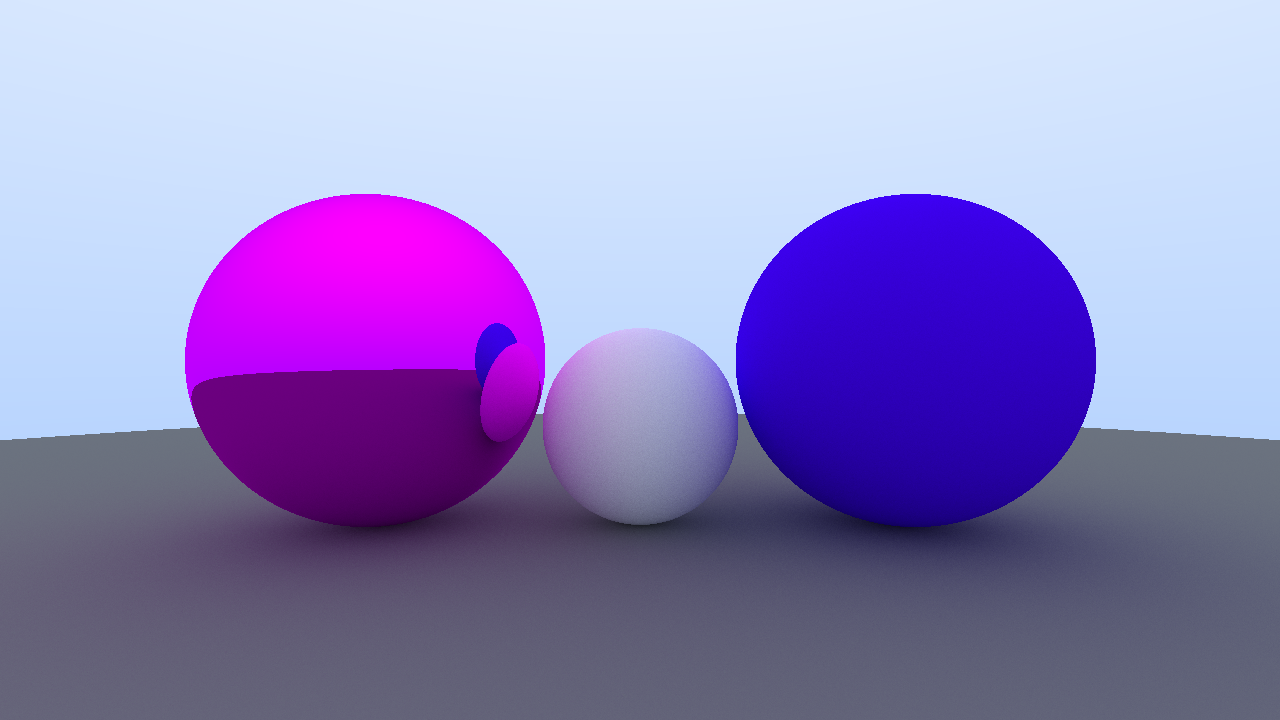
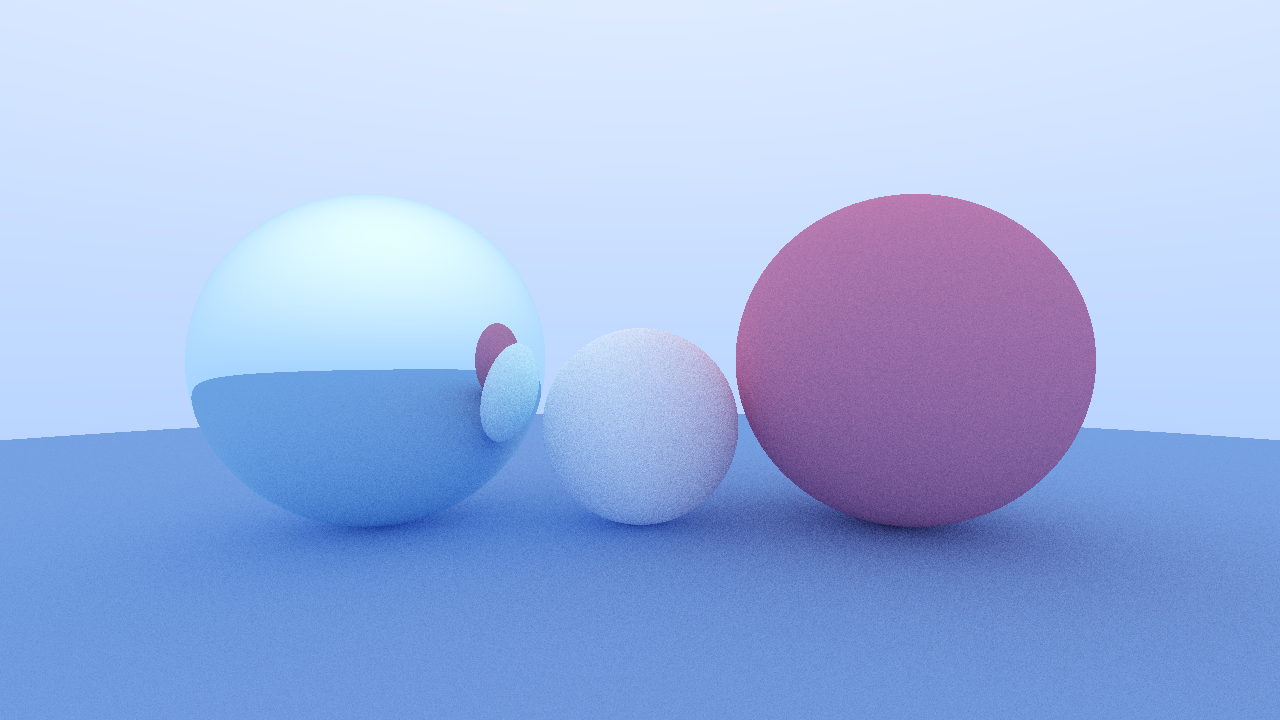
added yaml scene support

diff --git a/src/utils/scene.rs b/src/utils/scene.rs
@@ -1,7 +1,90 @@
-use crate::shapes::sphere::Sphere;
+use std::{fs, sync::Arc};
+
+use nalgebra::Vector3;
+use yaml_rust::YamlLoader;
+
+use crate::{
+    materials::{diffuse::DiffuseMaterial, material::Material, metal::MetalMaterial},
+    shapes::sphere::Sphere,
+};
 
 #[derive(Clone)]
 pub struct Scene {
-    pub name: &'static str,
+    pub name: String,
     pub spheres: Vec<Sphere>,
+
+    pub output: String,
+    pub size: Vec<i64>,
+    pub samples: f64,
+    pub gamma: f64,
+}
+
+impl Scene {
+    pub fn from_file(path: &str) -> Scene {
+        let contents = fs::read_to_string(path).unwrap();
+        let docs = YamlLoader::load_from_str(&contents).unwrap();
+        let doc = &docs[0];
+
+        let name = doc["output"].as_str().unwrap().to_owned();
+        let mut spheres: Vec<Sphere> = vec![];
+
+        for i in 0..doc["world"].as_vec().unwrap().len() {
+            if doc["world"][i]
+                .as_hash()
+                .unwrap()
+                .contains_key(&yaml_rust::Yaml::String("sphere".to_string()))
+            {
+                let position = Vector3::new(
+                    doc["world"][i]["position"][0].as_f64().unwrap(),
+                    doc["world"][i]["position"][1].as_f64().unwrap(),
+                    doc["world"][i]["position"][2].as_f64().unwrap(),
+                );
+                let radius = doc["world"][i]["radius"].as_f64().unwrap();
+
+                let mut material: Option<Arc<(dyn Material + 'static)>> = None;
+
+                if doc["world"][i]["material"]["type"]
+                    == yaml_rust::Yaml::String("diffuse".to_string())
+                {
+                    material = Some(Arc::new(DiffuseMaterial {
+                        albedo: Vector3::new(
+                            doc["world"][i]["material"]["albedo"][0].as_f64().unwrap(),
+                            doc["world"][i]["material"]["albedo"][1].as_f64().unwrap(),
+                            doc["world"][i]["material"]["albedo"][2].as_f64().unwrap(),
+                        ),
+                    }));
+                } else if doc["world"][i]["material"]["type"]
+                    == yaml_rust::Yaml::String("metal".to_string())
+                {
+                    material = Some(Arc::new(MetalMaterial {
+                        albedo: Vector3::new(
+                            doc["world"][i]["material"]["albedo"][0].as_f64().unwrap(),
+                            doc["world"][i]["material"]["albedo"][1].as_f64().unwrap(),
+                            doc["world"][i]["material"]["albedo"][2].as_f64().unwrap(),
+                        ),
+                        fuzz: doc["world"][i]["material"]["fuzz"].as_f64().unwrap(),
+                    }));
+                }
+
+                spheres.push(Sphere {
+                    position: position,
+                    radius: radius,
+                    mat: material,
+                });
+            }
+        }
+
+        Scene {
+            name: name,
+            spheres: spheres,
+
+            output: doc["output"].as_str().unwrap().to_string(),
+            size: vec![
+                doc["size"][0].as_i64().unwrap(),
+                doc["size"][1].as_i64().unwrap(),
+            ],
+            samples: doc["samples"].as_f64().unwrap(),
+            gamma: doc["gamma"].as_f64().unwrap(),
+        }
+    }
 }

diff --git a/src/utils/app.rs b/src/utils/app.rs
@@ -1,12 +1,3 @@
-use std::sync::Arc;
-
-use nalgebra::Vector3;
-
-use crate::{
-    materials::{diffuse::DiffuseMaterial, metal::MetalMaterial},
-    shapes::sphere::Sphere,
-};
-
 use super::{
     camera::{self, Camera},
     renderer::{self, Renderer},
@@ -26,63 +17,16 @@ pub struct Application {
 }
 
 pub fn create(name: &'static str, version: &'static str) -> Application {
-    let scene = Scene {
-        name: "simple",
-        spheres: vec![
-            // Sphere {
-            //     position: Vector3::new(0.0, 0.0, 0.0),
-            //     radius: 0.5,
-            //     mat: Some(Arc::new(DiffuseMaterial {
-            //         albedo: Vector3::new(0.5, 0.5, 0.5),
-            //     })),
-            // },
-            // Sphere {
-            //     position: Vector3::new(0.0, 100.5, 0.0),
-            //     radius: 100.0,
-            //     mat: Some(Arc::new(DiffuseMaterial {
-            //         albedo: Vector3::new(0.5, 0.5, 0.5),
-            //     })),
-            // },
-            Sphere {
-                position: Vector3::new(0.0, 0.2, 0.0),
-                radius: 0.3,
-                mat: Some(Arc::new(DiffuseMaterial {
-                    albedo: Vector3::new(1.0, 1.0, 1.0),
-                })),
-            },
-            Sphere {
-                position: Vector3::new(-0.8, 0.0, 0.0),
-                radius: 0.5,
-                mat: Some(Arc::new(MetalMaterial {
-                    albedo: Vector3::new(1.0, 0.0, 1.0),
-                    fuzz: 0.0,
-                })),
-            },
-            Sphere {
-                position: Vector3::new(0.8, 0.0, 0.0),
-                radius: 0.5,
-                mat: Some(Arc::new(DiffuseMaterial {
-                    albedo: Vector3::new(0.3, 0.0, 1.0),
-                })),
-            },
-            Sphere {
-                position: Vector3::new(0.0, 100.5, 0.0),
-                radius: 100.0,
-                mat: Some(Arc::new(DiffuseMaterial {
-                    albedo: Vector3::new(0.5, 0.5, 0.5),
-                })),
-            },
-        ],
-    };
+    let scene = Scene::from_file("scenes/demo.yaml");
 
     let app = Application {
         name: name,
         version: version,
         is_running: true,
-        scene: scene,
+        scene: scene.clone(),
         frames: 1,
         camera: camera::create(45.0, 0.1, 100.0),
-        renderer: renderer::create(),
+        renderer: renderer::create(scene.size[0], scene.size[1], scene.samples, scene.gamma),
     };
 
     return app;

diff --git a/src/utils/renderer.rs b/src/utils/renderer.rs
@@ -14,11 +14,15 @@ use super::{
 
 pub struct Renderer {
     fb: Framebuffer,
+    samples: f64,
+    gamma: f64,
 }
 
-pub fn create() -> Renderer {
+pub fn create(width: i64, height: i64, samples: f64, gamma: f64) -> Renderer {
     return Renderer {
-        fb: framebuffer::create(1280, 720),
+        fb: framebuffer::create(width as u32, height as u32),
+        samples: samples,
+        gamma: gamma,
     };
 }
 
@@ -40,25 +44,20 @@ impl Renderer {
                 let mut r = 0.0;
                 let mut g = 0.0;
                 let mut b = 0.0;
-                let samples = 1000.0;
-                let gamma = 1.0;
 
-                for _ in 0..(samples as u32) {
+                for _ in 0..(self.samples as u32) {
                     let pixel = self.per_pixel(i, j, scene, camera);
                     r += pixel[0];
                     g += pixel[1];
                     b += pixel[2];
                 }
 
-                r = (r / samples).powf(1.0 / gamma);
-                g = (g / samples).powf(1.0 / gamma);
-                b = (b / samples).powf(1.0 / gamma);
+                r = (r / self.samples).powf(1.0 / self.gamma);
+                g = (g / self.samples).powf(1.0 / self.gamma);
+                b = (b / self.samples).powf(1.0 / self.gamma);
 
-                self.fb.data[(i, j)] = image::Rgb([
-                    (r.clamp(0.0, 0.999) * 255.0) as u8,
-                    (g.clamp(0.0, 0.999) * 255.0) as u8,
-                    (b.clamp(0.0, 0.999) * 255.0) as u8,
-                ]);
+                self.fb.data[(i, j)] =
+                    image::Rgb([(r * 255.0) as u8, (g * 255.0) as u8, (b * 255.0) as u8]);
             }
 
             pb.inc(1);
